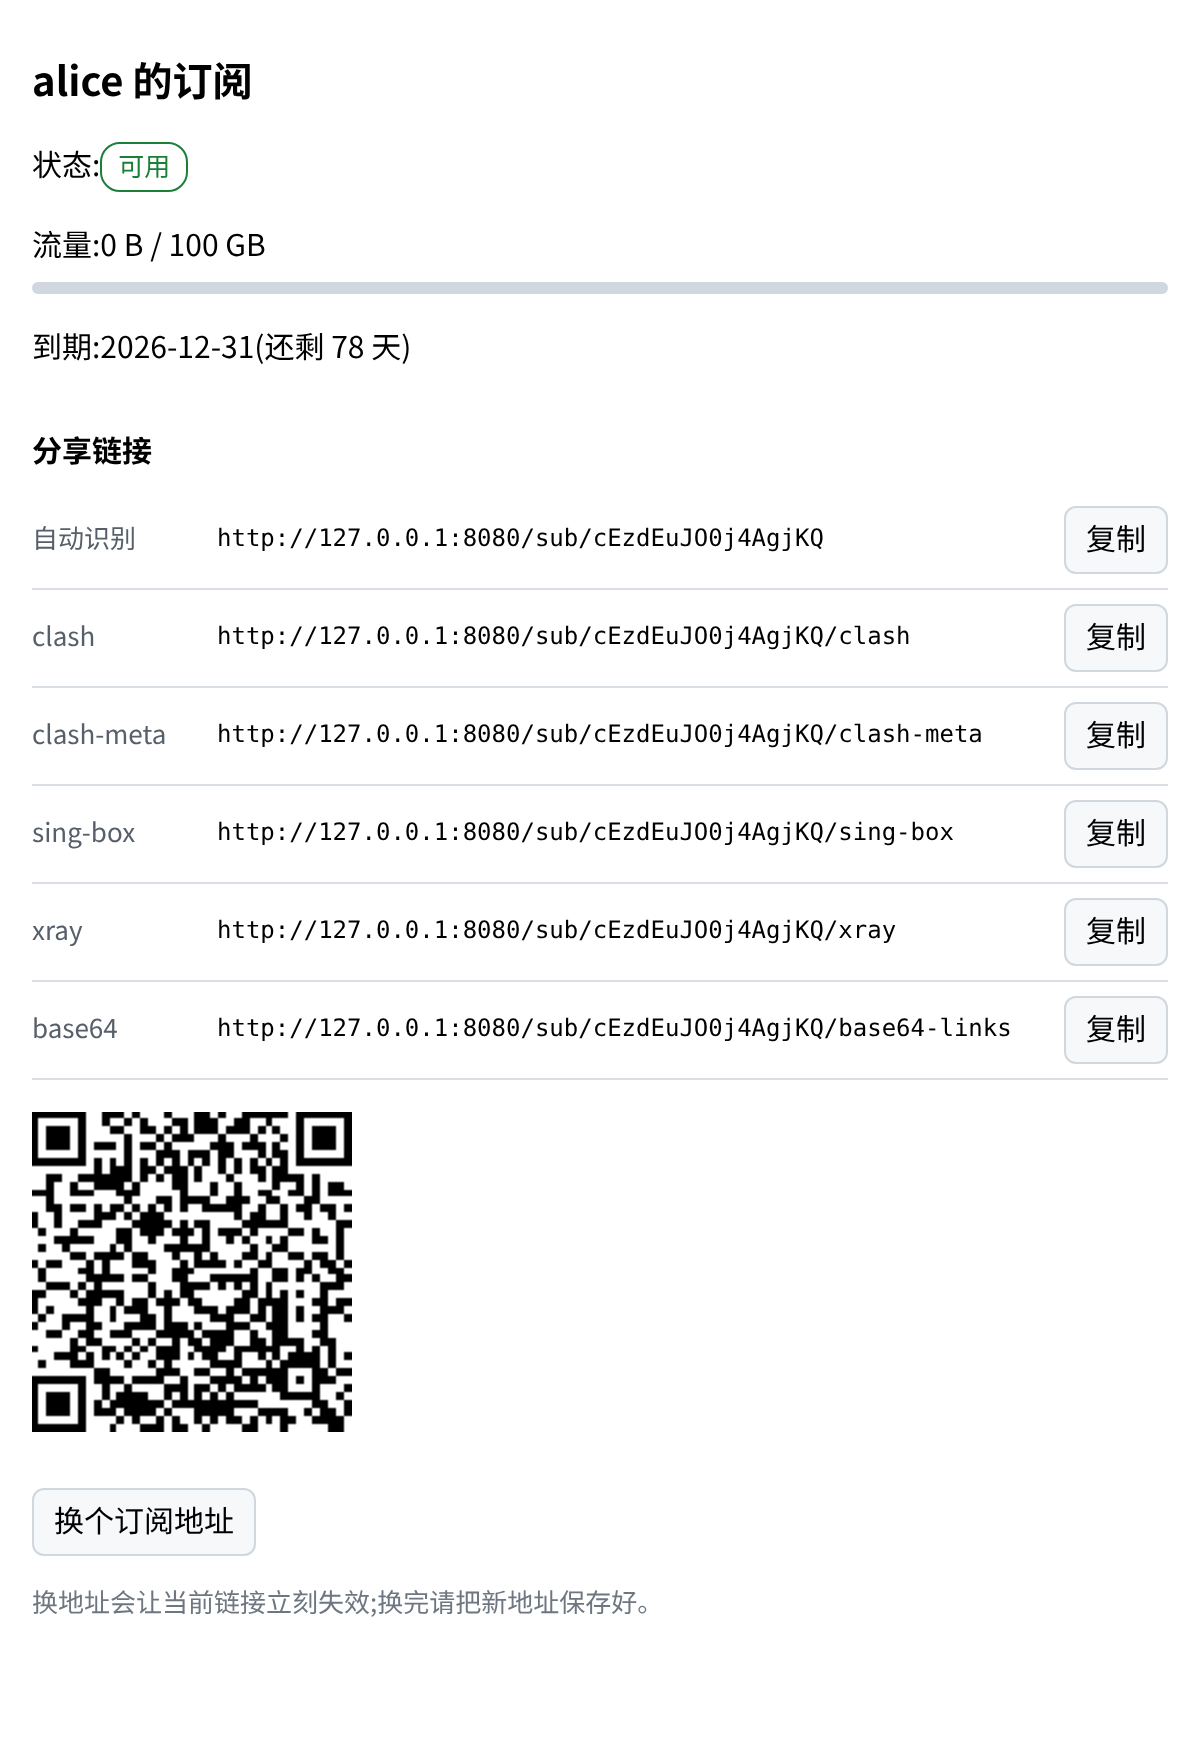
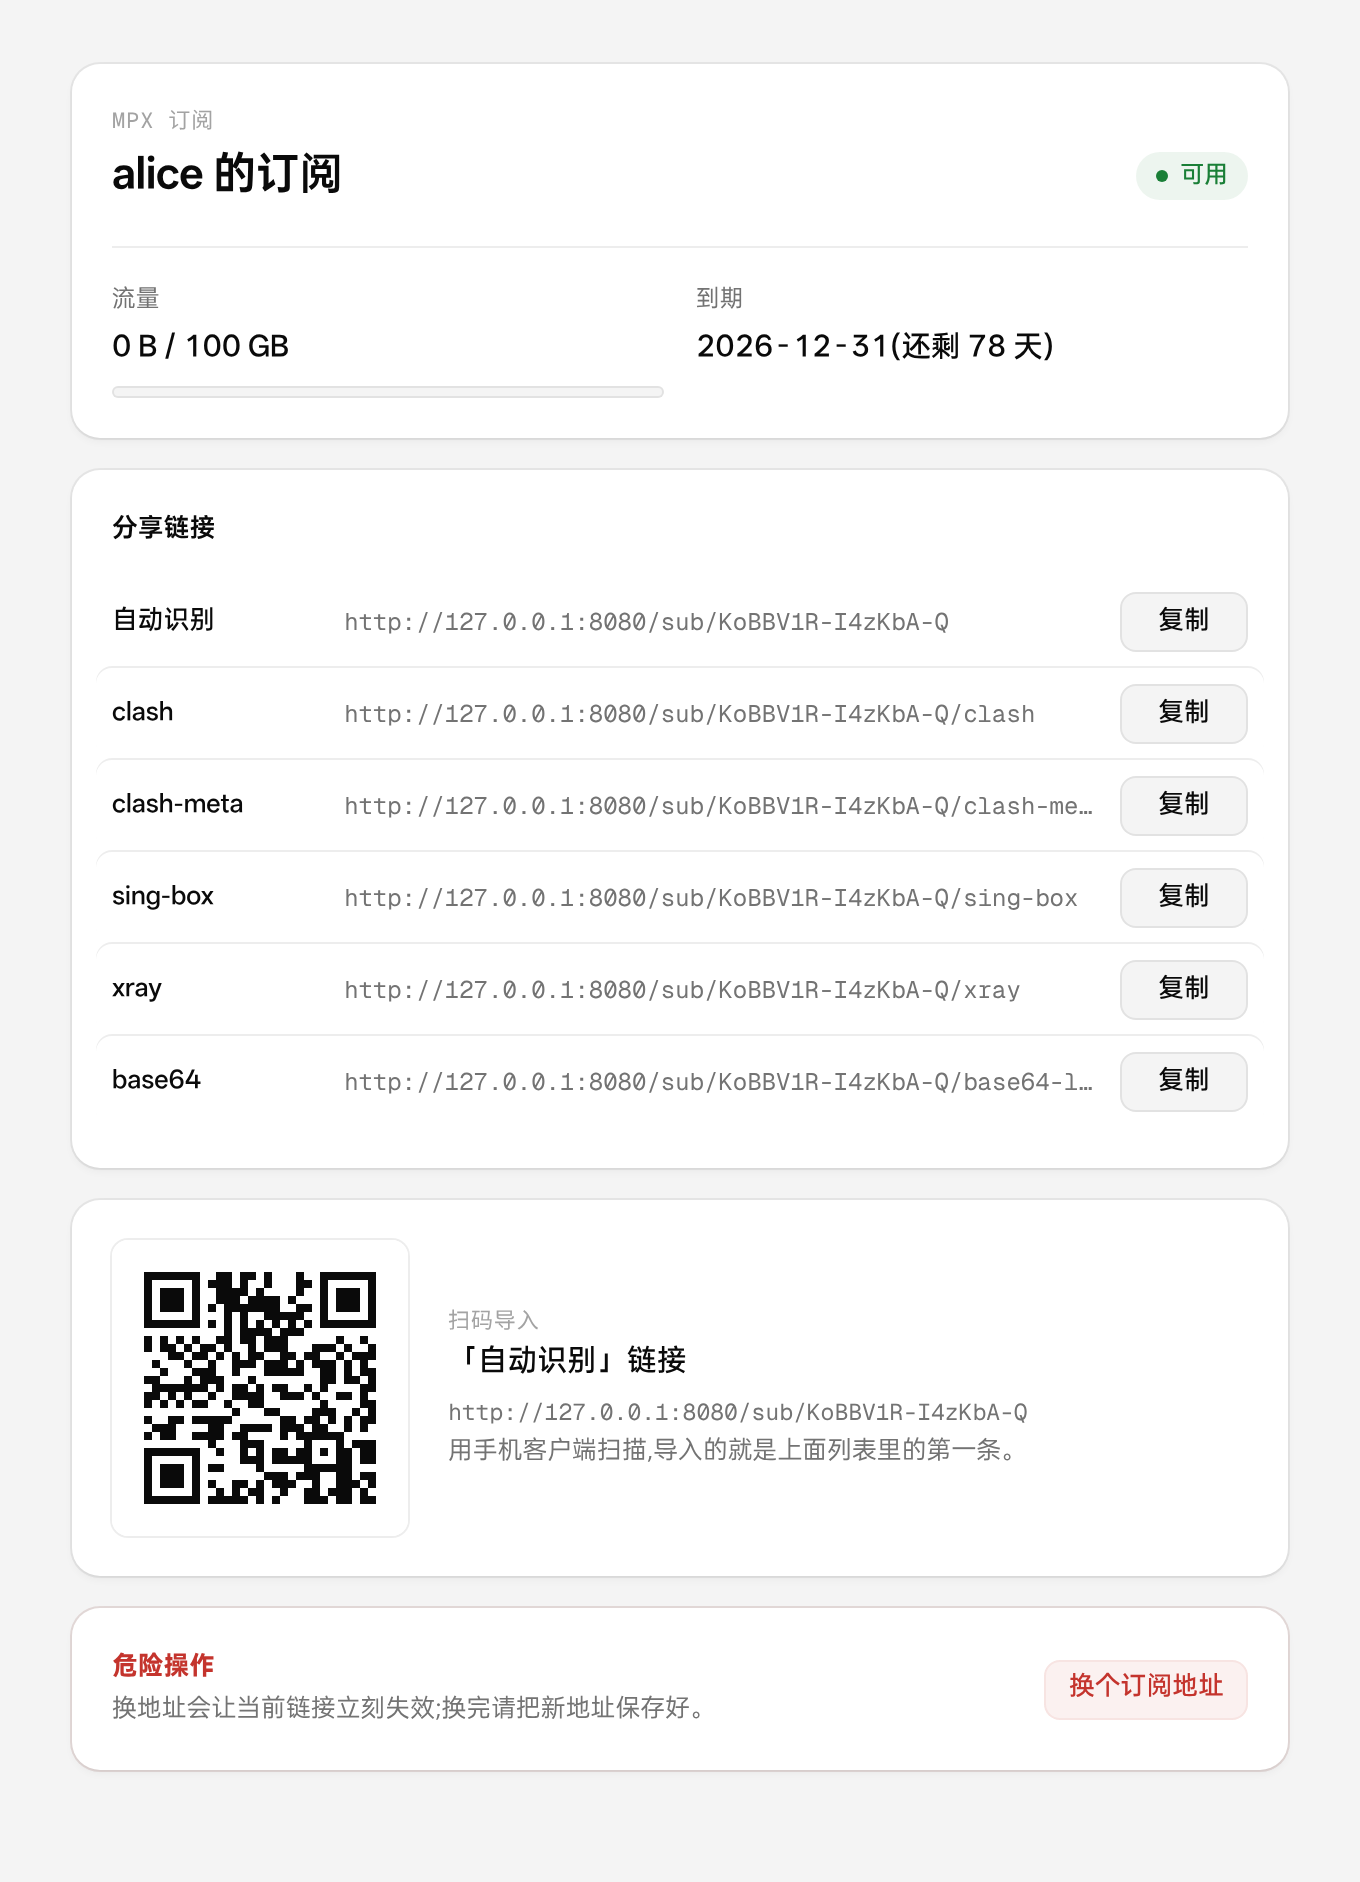
docs: 订阅页截图换成新版（浅色/深色按主题切换），更新首页说明

diff --git a/docs/.vitepress/theme/mpx.css b/docs/.vitepress/theme/mpx.css
@@ -58,8 +58,10 @@
 .showcase-text code { white-space:nowrap; }
 /* mpx 的表格按字符数补空格，中文在终端里会错位；这里按列宽排版，单元格内容与实测输出一致 */
 .cli-table .c { display:inline-block; white-space:pre; }
-.shot { max-width:380px; justify-self:end; width:100%; }
-[data-theme=dark] .shot img { filter:brightness(.88); }
+.shot { max-width:440px; justify-self:end; width:100%; }
+.shot .only-dark { display:none; }
+[data-theme=dark] .shot .only-light { display:none; }
+[data-theme=dark] .shot .only-dark { display:block; }
 .showcase h2 { margin:0 0 8px; }
 .showcase pre { font-size:12px; color:var(--ink); }
 .start { padding-block:56px 72px; max-width:1120px; }

diff --git a/docs/index.md b/docs/index.md
@@ -44,13 +44,13 @@ title: MPX
 <h2>浏览器打开订阅地址，就是自助页</h2>
 <p>客户端拉同一条地址，拿到的是配置；浏览器打开，看到的是这一页：</p>
 <ul class="showcase-list">
-<li>状态、已用流量和上限、到期日与剩余天数</li>
-<li>各格式的订阅地址，每条带复制按钮</li>
-<li>订阅地址的二维码，手机扫码导入</li>
-<li>自己换一个订阅地址，旧地址立刻失效</li>
+<li>状态徽章、已用流量和上限、到期日与剩余天数</li>
+<li>各格式的订阅地址，每条带复制按钮，复制后有提示</li>
+<li>第一条地址的二维码，由控制面直接生成，不依赖外部脚本</li>
+<li>页面底部可以自己换订阅地址，换之前会先确认；换完旧地址立刻失效</li>
 </ul>
 </div>
-<figure class="tile shot"><img src="/subscription-dashboard.png" width="1200" height="1746" alt="浏览器中的订阅页"><figcaption>订阅页<span>实测截图</span></figcaption></figure>
+<figure class="tile shot"><img class="only-light" src="/subscription-dashboard.png" width="1360" height="1882" alt="浏览器中的订阅页"><img class="only-dark" src="/subscription-dashboard-dark.png" width="1360" height="1882" alt="浏览器中的订阅页（深色）"><figcaption>订阅页<span>实测截图</span></figcaption></figure>
 </div>
 </section>
 
